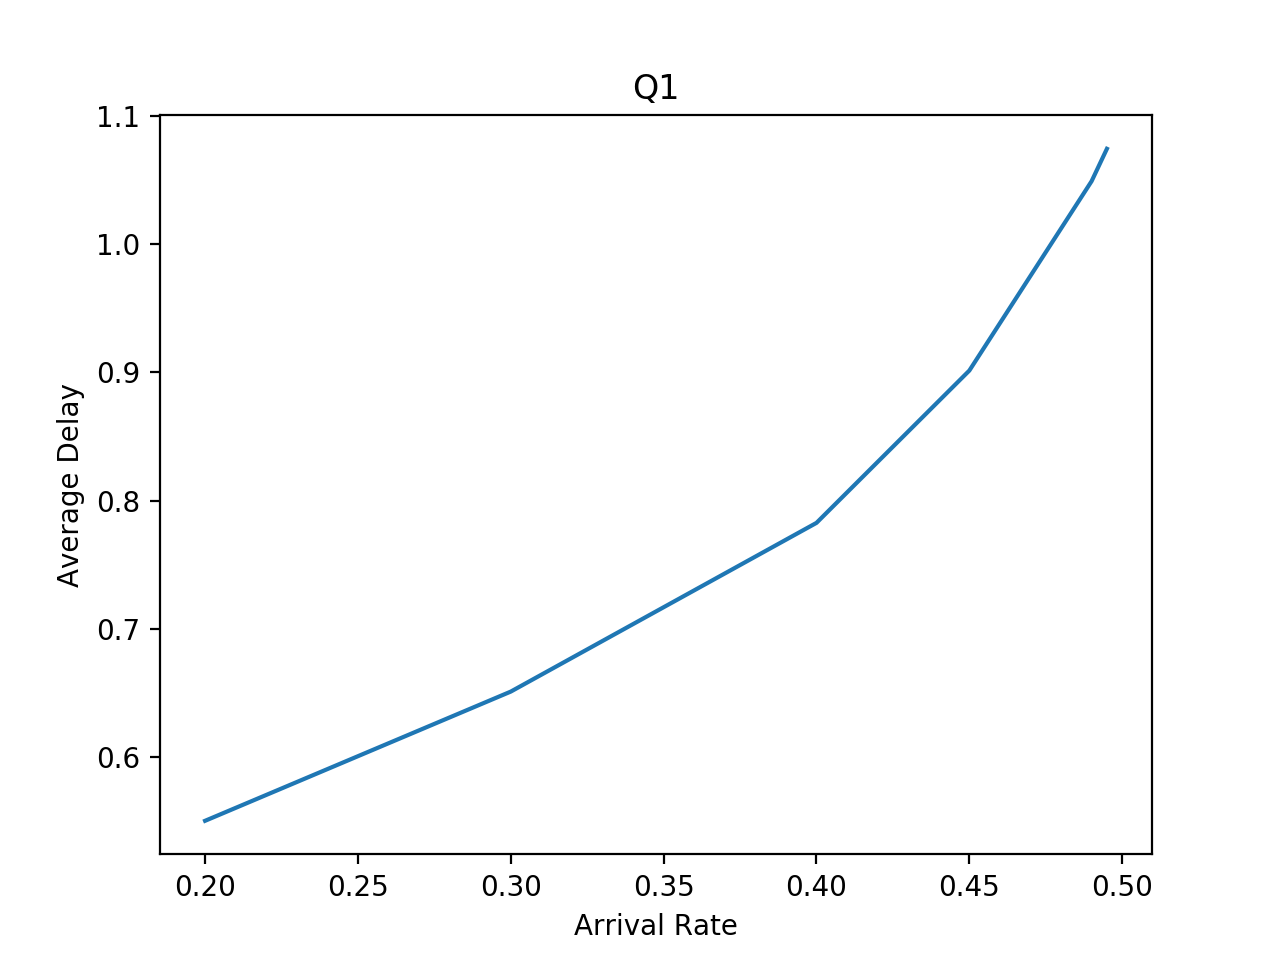
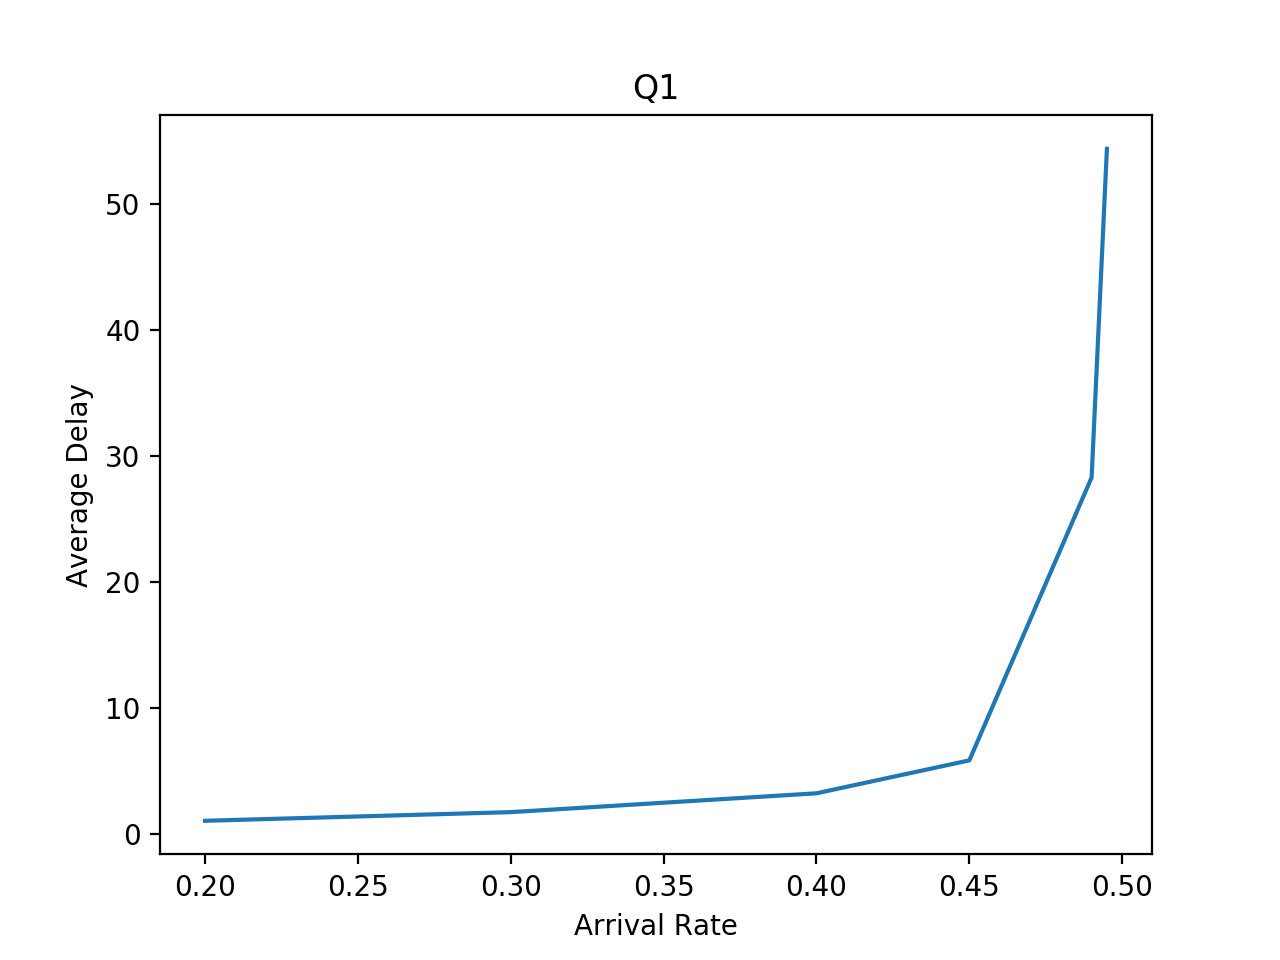
lab2 done

diff --git a/sim22.py b/sim22.py
@@ -9,22 +9,17 @@ import matplotlib.pyplot as plt
 experimentCount = 10**6
 arrivalRate =  [0.2, 0.3, 0.4, 0.45, 0.49, 0.495];
 departureRate = 0.5
-dict = {}
 
+dict={}
 queueDelay = []
+jobs045=0
 
 for i in range(len(arrivalRate)):
     delay=0
     servers_jobs = [0, 0, 0, 0, 0]
     arrRate = arrivalRate[i]
-    jobcount = 5 * arrRate
-    noJobRate = comb(5, 0) * (1 - arrRate)**5
-    oneJobRate = comb(5, 1) * arrRate ** 1 * (1 - arrRate)**4
-    twoJobsRate = comb(5, 1) * arrRate ** 2 * (1 - arrRate)**3
-    threeJobsRate = comb(5, 1) * arrRate ** 3 * (1 - arrRate)**2
-    fourJobsRate = comb(5, 1) * arrRate ** 4 * (1 - arrRate)**1
-    fiveJobsRate = comb(5, 1) * arrRate ** 5
-    queueLength=0
+
+
     queue1 = deque()
     queue2 = deque()
     queue3 = deque()
@@ -32,19 +27,12 @@ for i in range(len(arrivalRate)):
     queue5 = deque()
     for j in range(experimentCount):
         job_number=0
-        rate = random.random()
-        if(rate < fiveJobsRate):
-            job_number = 5
-        elif(rate < fourJobsRate):
-            job_number = 4
-        elif(rate < threeJobsRate):
-            job_number = 3
-        elif(rate < twoJobsRate):
-            job_number = 2
-        elif(rate < oneJobRate):
-            job_number = 1
-        else: #no job detected
-            job_number =0
+        for job in range(5):
+            rate = random.random()
+            if(rate<arrRate):
+                job_number+=1
+                if(arrRate==0.45):
+                    jobs045+=1
 
         for k in range(job_number):
             if(servers_jobs.index(min(servers_jobs)) == 0):
@@ -65,8 +53,7 @@ for i in range(len(arrivalRate)):
 
 
 
-
-        if(random.random() < departureRate and len(queue1)>0):
+        if(random.random() < departureRate and servers_jobs[0]>0):
                 out = j - queue1.popleft()
                 delay += out
                 if(arrRate == 0.45):
@@ -75,7 +62,7 @@ for i in range(len(arrivalRate)):
                     else:
                         dict[out] = 1
                 servers_jobs[0] = len(queue1)
-        if(random.random() < departureRate and len(queue2) > 0):
+        if(random.random() < departureRate and servers_jobs[1] > 0):
                 out = j - queue2.popleft()
                 delay += out
                 if(arrRate == 0.45):
@@ -84,7 +71,7 @@ for i in range(len(arrivalRate)):
                     else:
                         dict[out] = 1
                 servers_jobs[1] = len(queue2)
-        if(random.random() < departureRate and len(queue3) > 0):
+        if(random.random() < departureRate and servers_jobs[2] > 0):
                 out = j - queue3.popleft()
                 delay += out
                 if(arrRate == 0.45):
@@ -93,7 +80,7 @@ for i in range(len(arrivalRate)):
                     else:
                         dict[out] = 1
                 servers_jobs[2] = len(queue3)
-        if(random.random() < departureRate and len(queue4) > 0):
+        if(random.random() < departureRate and servers_jobs[3] > 0):
                 out = j - queue4.popleft()
                 delay += out
                 if(arrRate == 0.45):
@@ -102,7 +89,7 @@ for i in range(len(arrivalRate)):
                     else:
                         dict[out] = 1
                 servers_jobs[3] = len(queue4)
-        if(random.random() < departureRate and len(queue5) > 0):
+        if(random.random() < departureRate and servers_jobs[4] > 0):
                 out = j - queue5.popleft()
                 delay += out
                 if(arrRate == 0.45):
@@ -111,7 +98,6 @@ for i in range(len(arrivalRate)):
                     else:
                         dict[out] = 1
                 servers_jobs[4] = len(queue5)
-
     print(delay/experimentCount)
     queueDelay.append(delay/experimentCount)
 
@@ -122,7 +108,7 @@ for key in dict.keys():
     xBar.append(key)
 for val in dict.values():
     yBar.append(val)
-plt.bar(xBar,yBar)
+plt.bar(np.array(xBar), np.array(yBar)/jobs045)
 plt.xlabel('Possible Delay')
 plt.ylabel('Number of Jobs')
 plt.title('Q2: Arrival Rate : 0.45')
